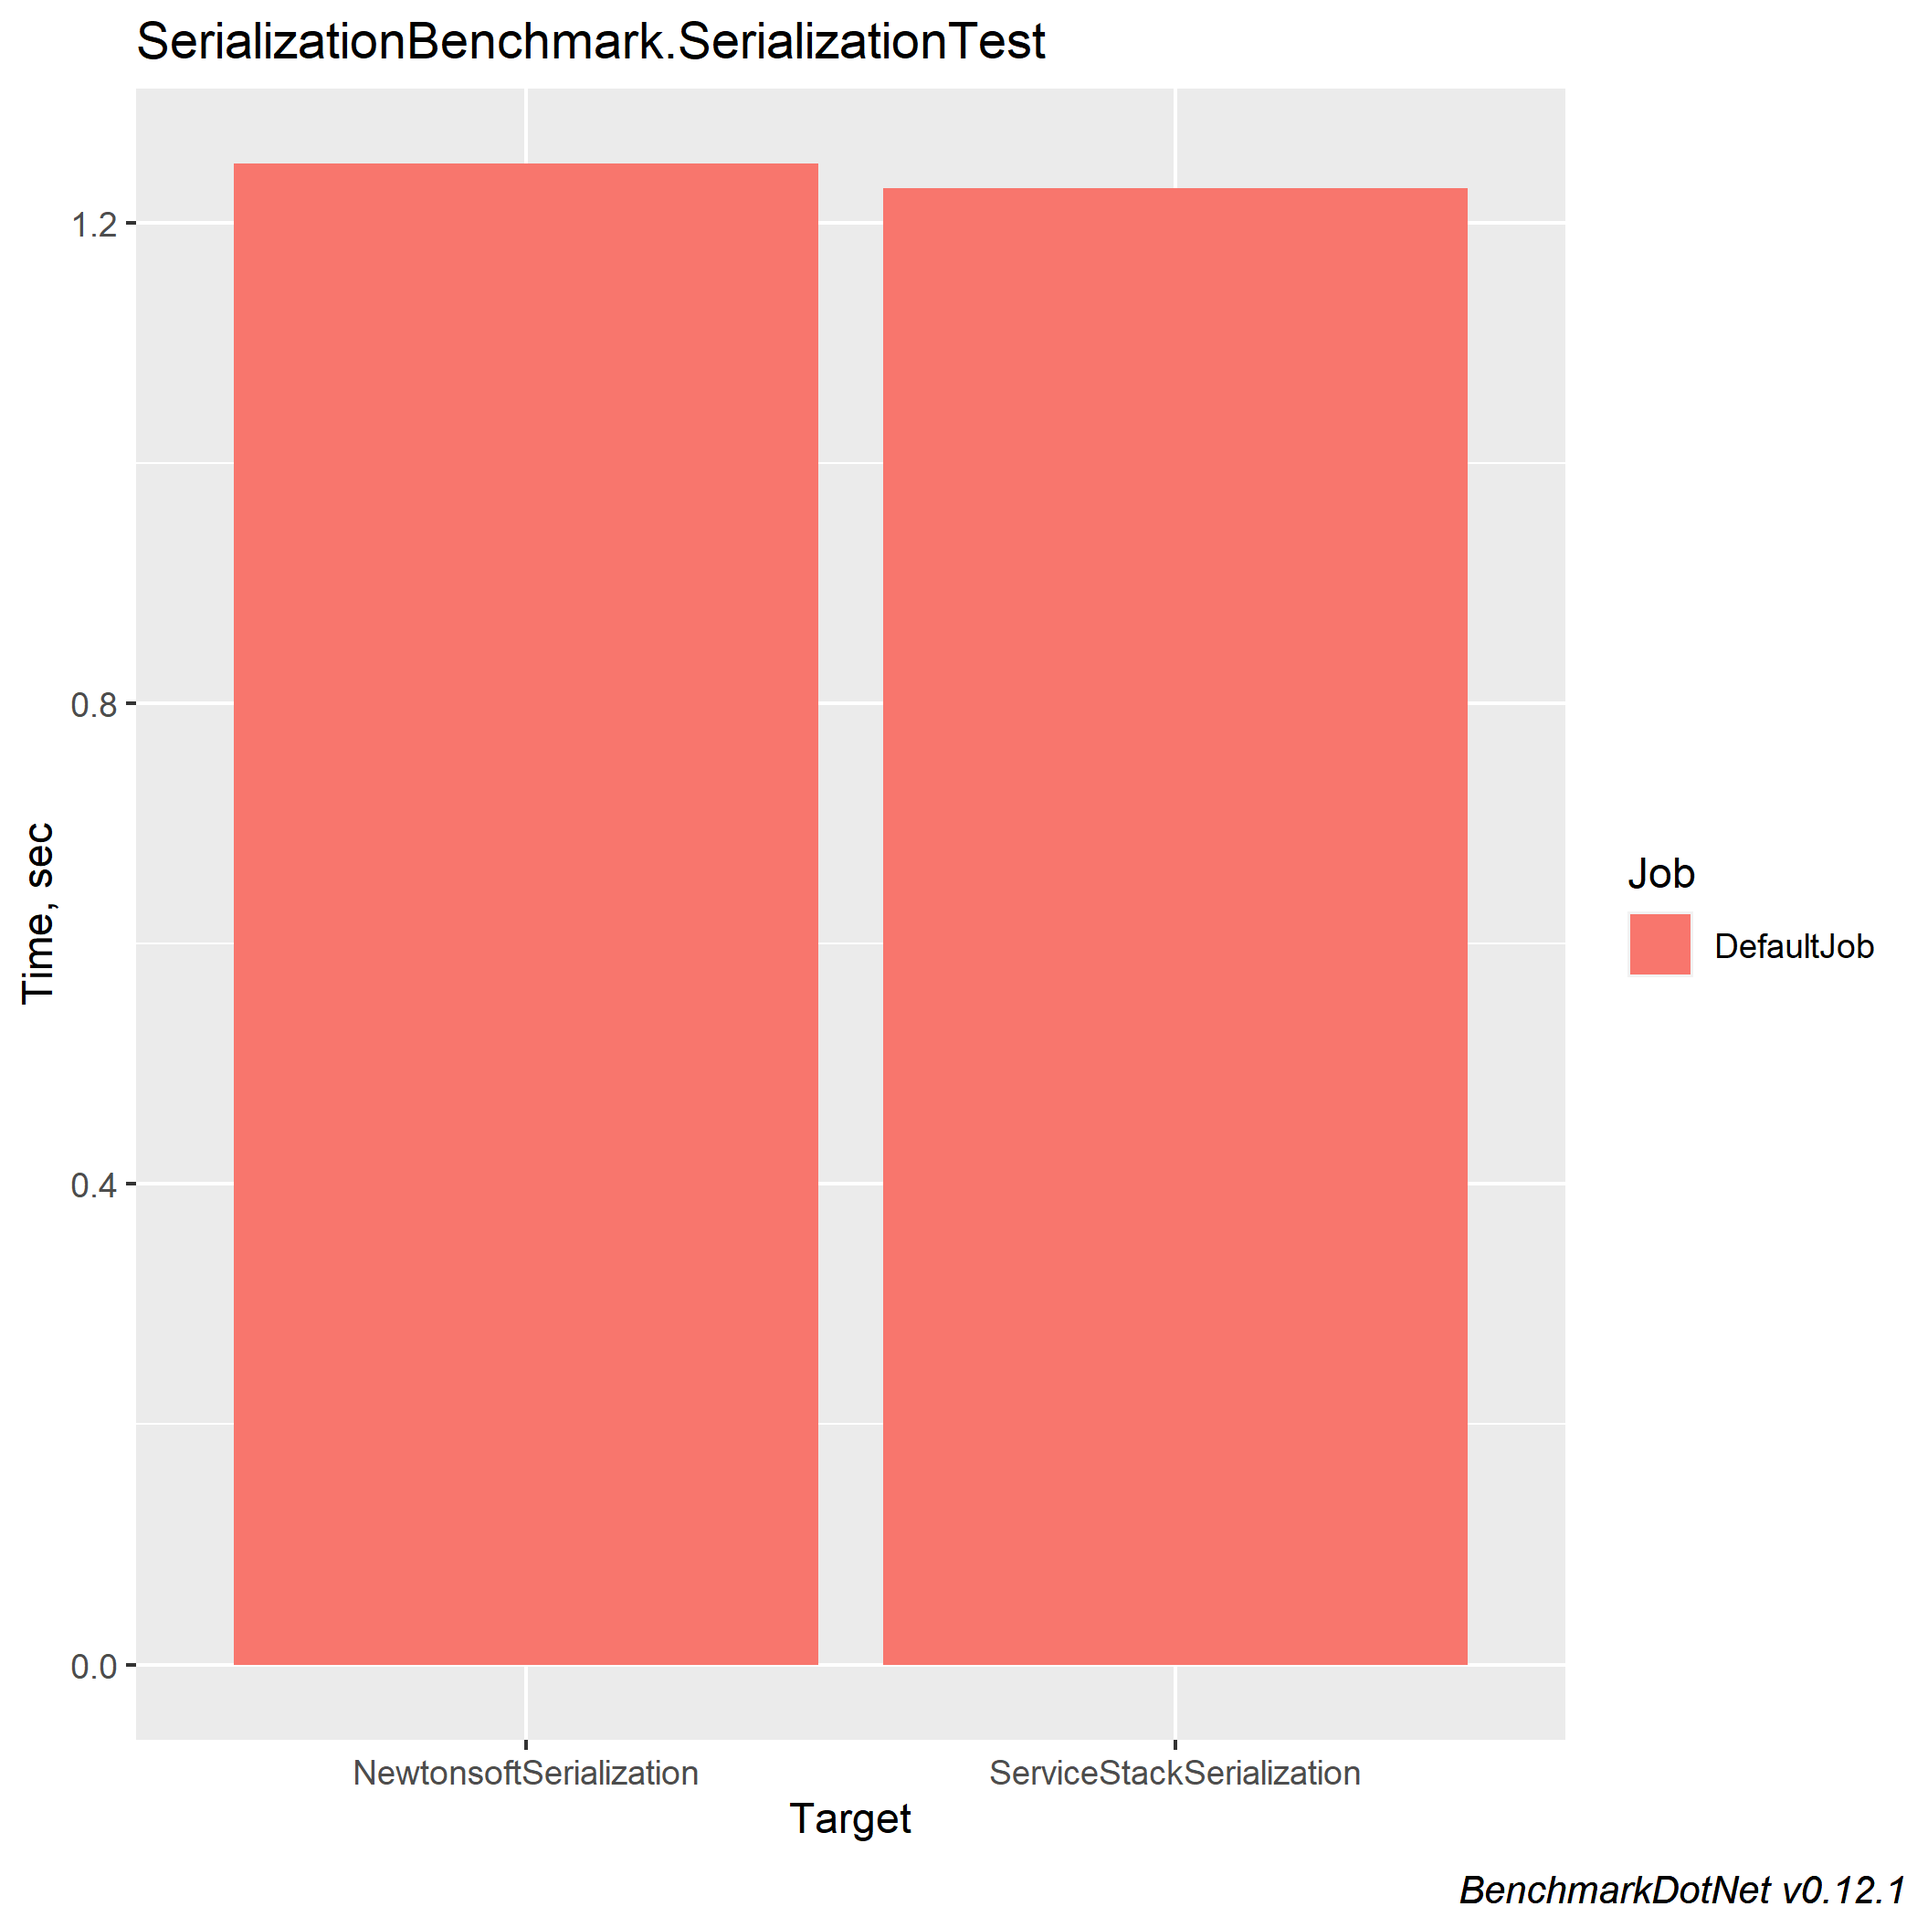
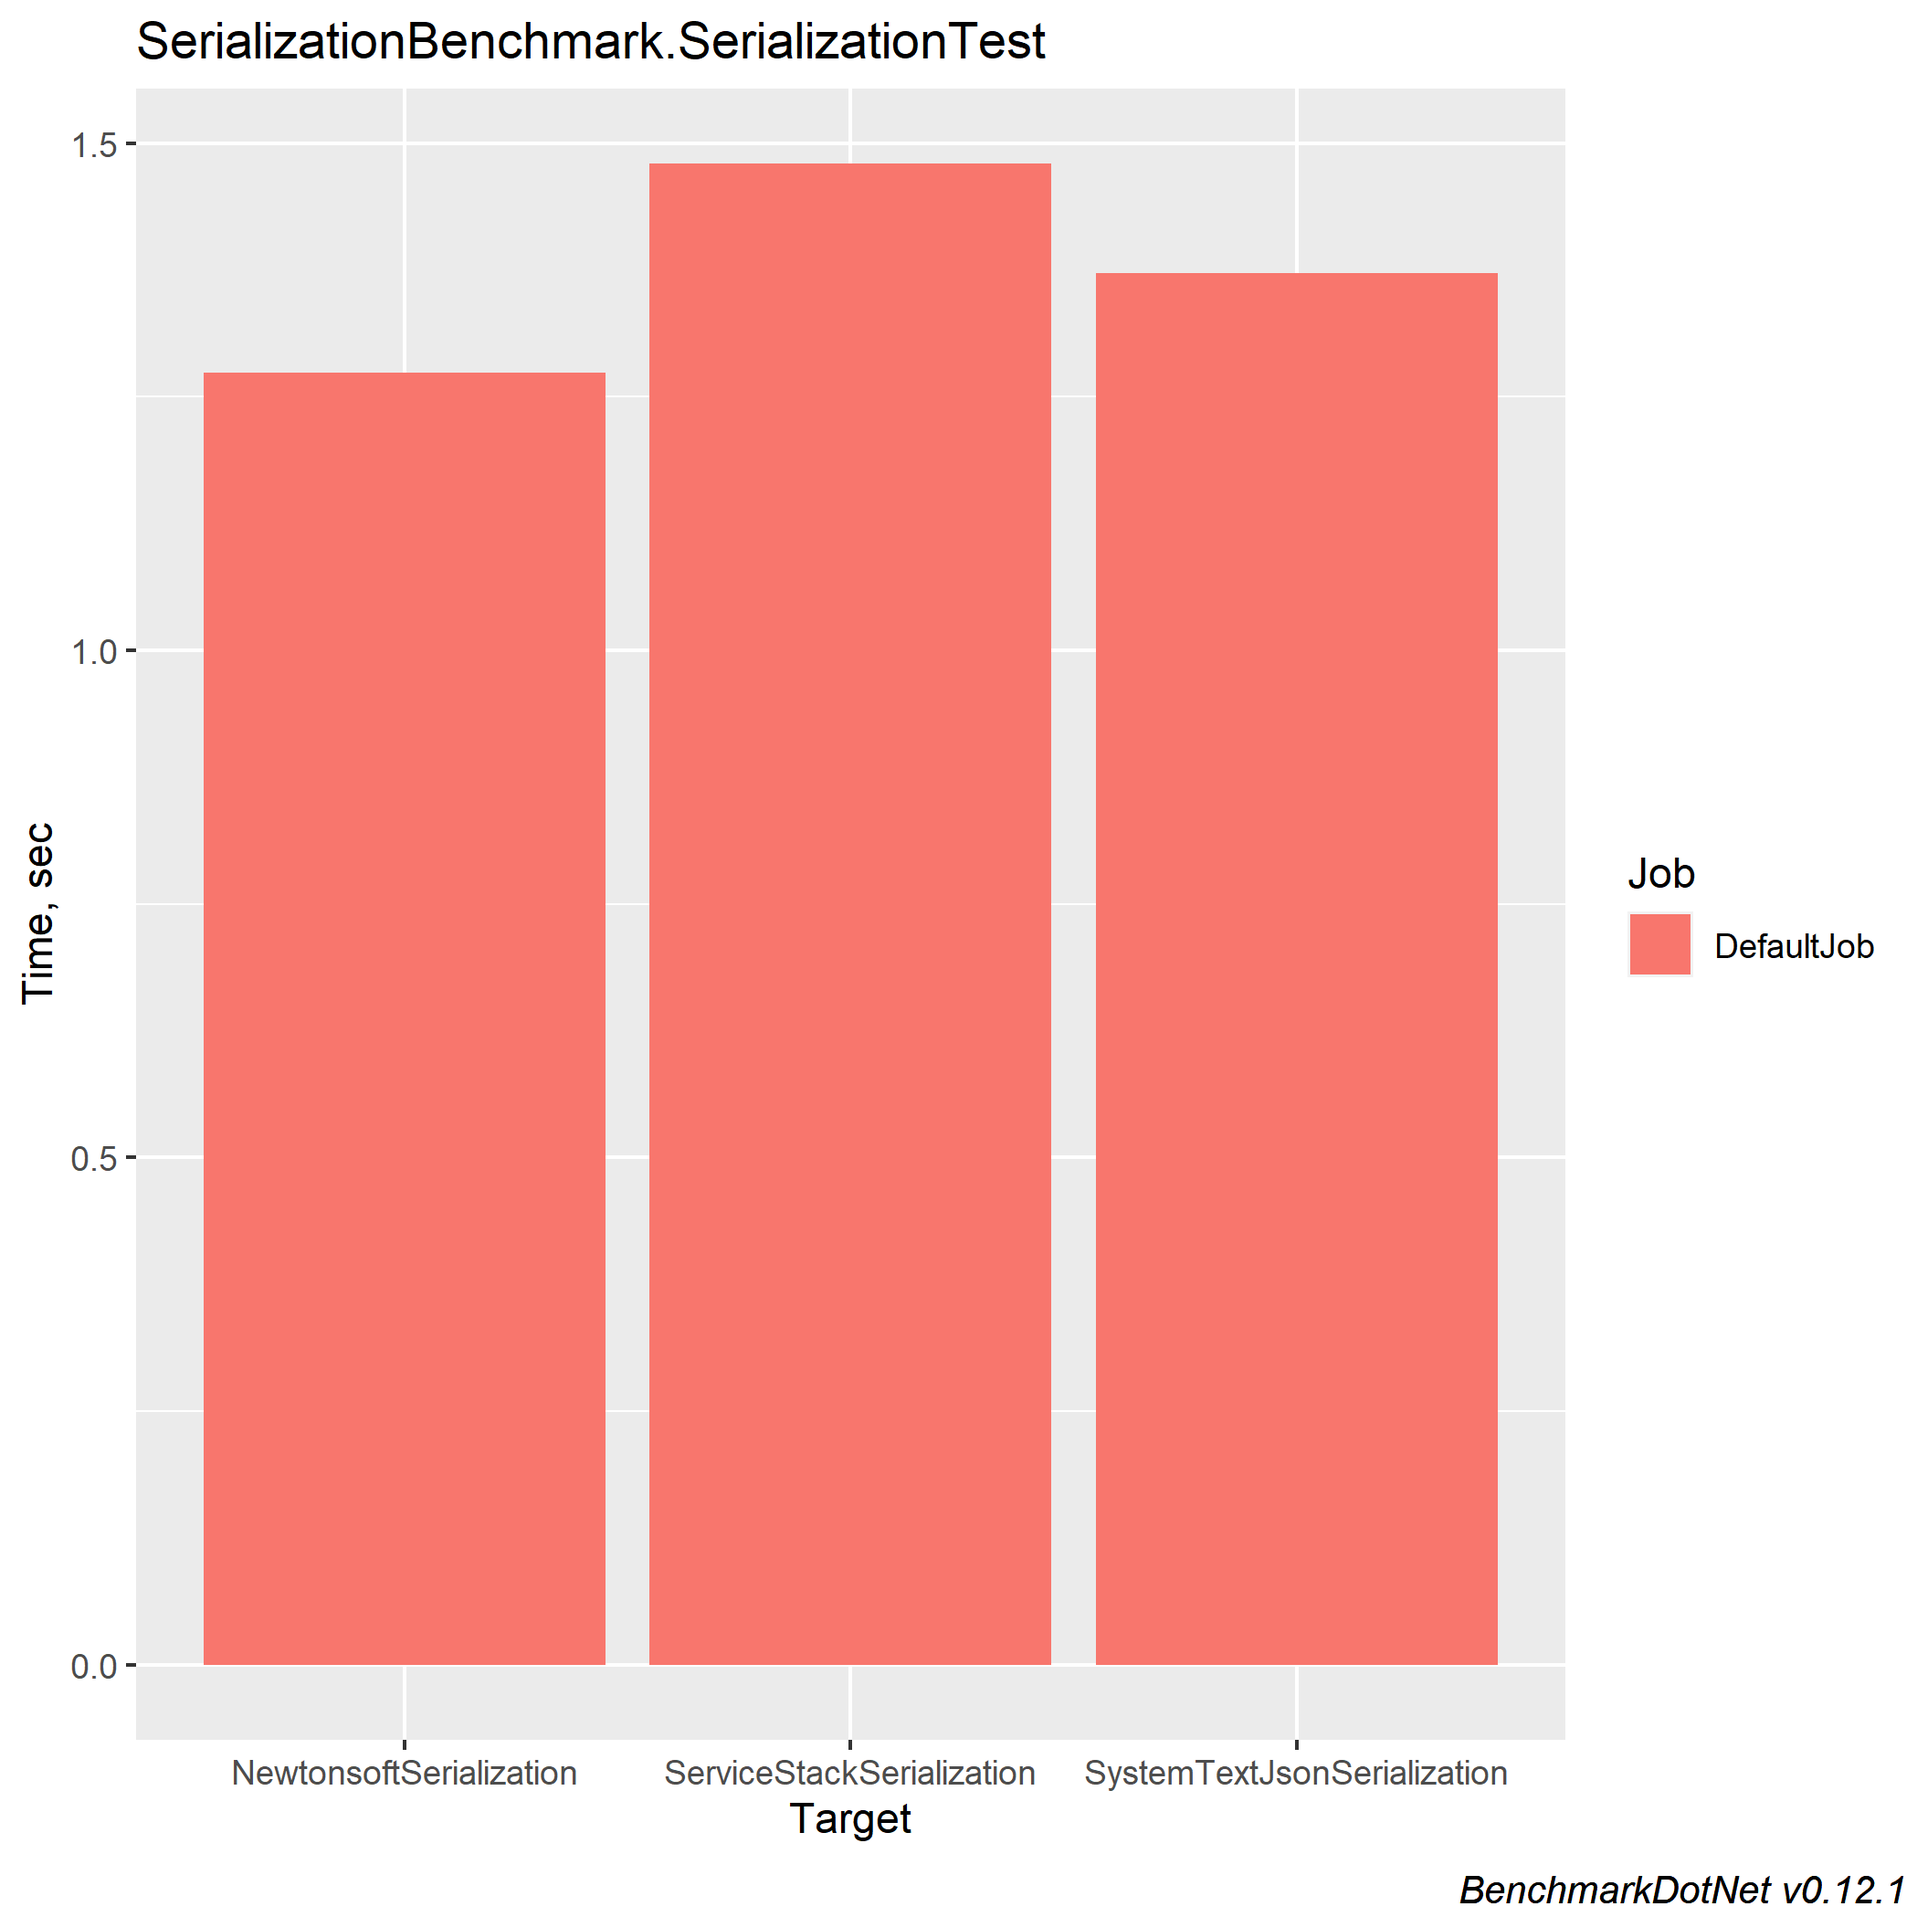
SystemTextJson Serializer added

diff --git a/SerializationBenchmark/Program.cs b/SerializationBenchmark/Program.cs
@@ -20,19 +20,24 @@ namespace SerializationBenchmark
         private readonly IEnumerable<MainTestObject> _data;
         private readonly ISerializationTest<IEnumerable<MainTestObject>> _newtonsoftSerializer;
         private readonly ISerializationTest<IEnumerable<MainTestObject>> _serviceStackSerializer;
+        private readonly ISerializationTest<IEnumerable<MainTestObject>> _systemTextJsonSerializer;
 
         public SerializationTest()
         {
             _data = MockData.Create(NElements, NNestedElements);
             _newtonsoftSerializer = new NewtonsoftSerializer<IEnumerable<MainTestObject>>();
             _serviceStackSerializer = new ServiceStackSerializer<IEnumerable<MainTestObject>>();
+            _systemTextJsonSerializer = new SystemTextJsonSerializer<IEnumerable<MainTestObject>>();
         }
 
         [Benchmark]
         public void NewtonsoftSerialization() => _newtonsoftSerializer.Test(_data).Consume(consumer);
 
         [Benchmark]
-        public void ServiceStackSerialization() => _newtonsoftSerializer.Test(_data).Consume(consumer);
+        public void ServiceStackSerialization() => _serviceStackSerializer.Test(_data).Consume(consumer);
+
+        [Benchmark]
+        public void SystemTextJsonSerialization() => _systemTextJsonSerializer.Test(_data).Consume(consumer);
     }
 
 

diff --git a/SerializationBenchmark/Serialization/Implementation/SystemTextJsonSerializer.cs b/SerializationBenchmark/Serialization/Implementation/SystemTextJsonSerializer.cs
@@ -1,13 +1,13 @@
-using Newtonsoft.Json;
-using SerializationBenchmark.Serialization.Interface;
+using SerializationBenchmark.Serialization.Interface;
+using System.Text.Json;
 
 namespace SerializationBenchmark.Serialization.Implementation
 {
     /// <summary>
-    /// Newtonsoft Serializer
+    /// System.Text.Json Serializer
     /// </summary>
     /// <typeparam name="T"></typeparam>
-    public class NewtonsoftSerializer<T> : SerializationTest<T> where T : class
+    public class SystemTextJsonSerializer<T> : SerializationTest<T> where T : class
     {
         /// <summary>
         /// Serializes object
@@ -16,7 +16,7 @@ namespace SerializationBenchmark.Serialization.Implementation
         /// <returns>JSON value</returns>
         public override string Serialize(T obj)
         {
-            return JsonConvert.SerializeObject(obj);
+            return JsonSerializer.Serialize(obj);
         }
         /// <summary>
         /// Deserialize string to a specified object
@@ -24,7 +24,7 @@ namespace SerializationBenchmark.Serialization.Implementation
         /// <param name="json"></param>
         public override T Deserialize(string json)
         {
-            return JsonConvert.DeserializeObject<T>(json);
+            return JsonSerializer.Deserialize<T>(json);
         }
     }
 }

diff --git a/SerializationBenchmark/Serialization/Implementation/ServiceStackSerializer.cs b/SerializationBenchmark/Serialization/Implementation/ServiceStackSerializer.cs
@@ -3,6 +3,10 @@ using ServiceStack.Text;
 
 namespace SerializationBenchmark.Serialization.Implementation
 {
+    /// <summary>
+    /// ServiceStack Serializer
+    /// </summary>
+    /// <typeparam name="T"></typeparam>
     public class ServiceStackSerializer<T> : SerializationTest<T> where T : class
     {
         /// <summary>

diff --git a/SerializationBenchmark/Serialization/Base/SerializerTest.cs b/SerializationBenchmark/Serialization/Base/SerializerTest.cs
@@ -1,5 +1,9 @@
 namespace SerializationBenchmark.Serialization.Interface
 {
+    /// <summary>
+    /// Serialization Test
+    /// </summary>
+    /// <typeparam name="T"></typeparam>
     public abstract class SerializationTest<T> : ISerializationTest<T> where T : class
     {
         /// <summary>

diff --git a/SerializationBenchmark/Serialization/Base/ISerializationTest.cs b/SerializationBenchmark/Serialization/Base/ISerializationTest.cs
@@ -1,5 +1,9 @@
 namespace SerializationBenchmark.Serialization.Interface
 {
+    /// <summary>
+    /// Serialization test base interface
+    /// </summary>
+    /// <typeparam name="T"></typeparam>
     public interface ISerializationTest<T> where T : class
     {
         /// <summary>

diff --git a/README.md b/README.md
@@ -14,7 +14,7 @@ The JSON Serialization Benchmark is a console application with a purpose (as the
 ## Serializers Tested
 - [Newtonsoft](https://www.newtonsoft.com/json)
 - [ServiceStack](https://github.com/ServiceStack/ServiceStack.Text)
-
+- [System.Text.Json](https://www.nuget.org/packages/System.Text.Json)
 
 ## Results
 
@@ -26,10 +26,12 @@ Intel Core i5-4670K CPU 3.40GHz (Haswell), 1 CPU, 4 logical and 4 physical cores
   DefaultJob : .NET Core 3.1.9 (CoreCLR 4.700.20.47201, CoreFX 4.700.20.47203), X64 RyuJIT
 
 ```
-|                    Method |    Mean |    Error |   StdDev |
-|-------------------------- |--------:|---------:|---------:|
-|   NewtonsoftSerialization | 1.249 s | 0.0124 s | 0.0116 s |
-| ServiceStackSerialization | 1.229 s | 0.0103 s | 0.0091 s |
+|                      Method |    Mean |    Error |   StdDev |
+|---------------------------- |--------:|---------:|---------:|
+|     NewtonsoftSerialization | 1.274 s | 0.0249 s | 0.0233 s |
+|   ServiceStackSerialization | 1.480 s | 0.0115 s | 0.0102 s |
+| SystemTextJsonSerialization | 1.372 s | 0.0102 s | 0.0095 s |
+
 
 
 ![alt text](Results.png "Title")
@@ -49,6 +51,7 @@ SerializationBenchmark/
 │   ├── Implementation/
 │   |   ├── NewtonsoftSerializer.cs
 │   |   ├── ServiceStackSerializer.cs
+│   |   ├── SystemTextJsonSerializer.cs
 ├── Types/
 │   ├── BaseTestObject.cs
 │   ├── MainTestObject.cs
